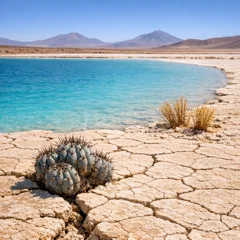
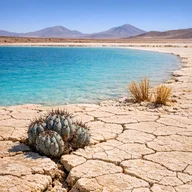
feat(theme): regenerate hero images at 192x192 and increase display size to 96x96
- Regenerate all 14 theme hero images at 192x192px (was 240x240) for 2x retina at new display size
- Replace fiordland, galapagos, highlands, namib, redwoods with new compositions that read clearly at thumbnail size
- Increase selected theme preview from 64px to 96px and dropdown items from 40px to 60px
- New images use stronger focal elements: wind-bent pine, Deadvlei tree, Opuntia cactus, silver fern, redwood trunk

diff --git a/src/components/Settings/AppThemePicker.tsx b/src/components/Settings/AppThemePicker.tsx
@@ -99,7 +99,7 @@ function ThemeOption({
         !highlighted && !selected && "hover:bg-surface-hover"
       )}
     >
-      <HeroImage scheme={scheme} size={40} />
+      <HeroImage scheme={scheme} size={60} />
       <div className="min-w-0 flex-1">
         <div className="flex items-center gap-1.5">
           <span className="text-xs font-medium text-canopy-text truncate">{scheme.name}</span>
@@ -352,7 +352,7 @@ export function AppThemePicker() {
           )}
         >
           <div className="relative shrink-0">
-            <HeroImage scheme={selectedScheme} size={64} />
+            <HeroImage scheme={selectedScheme} size={96} />
             {selectedScheme.heroVideo && (
               <video
                 ref={videoRef}
